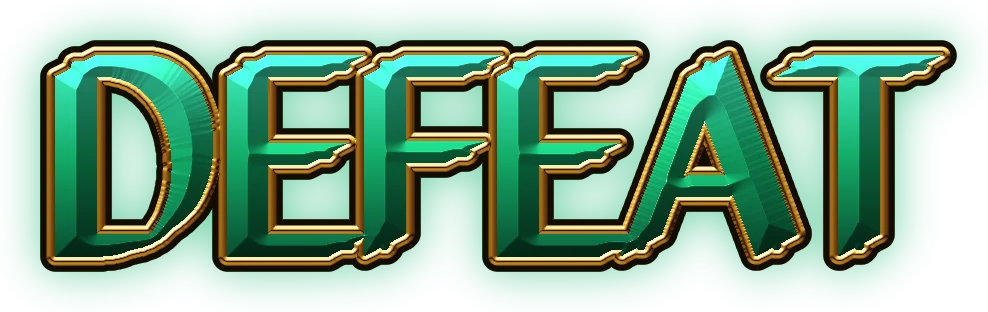
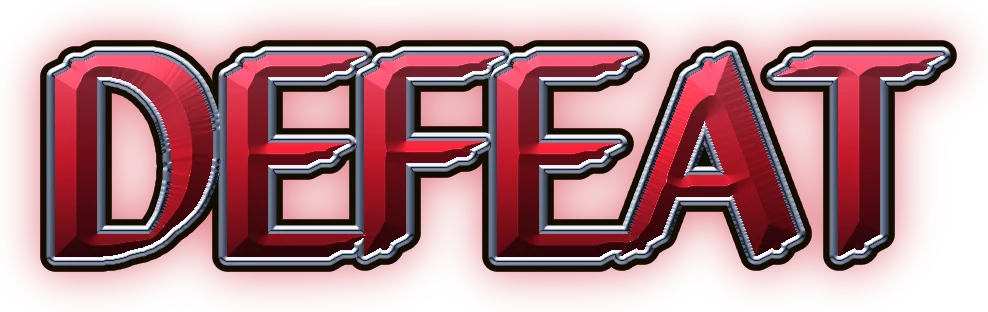
4.23: mağlubiyet kırmızı, sonuç penceresi başlığı sarı/gri, açılış yazısı küçüldü
Claude-Session: https://claude.ai/code/session_014ewFGurQpxPwb6SyJJ5X6r

diff --git a/oyna/oyun.html b/oyna/oyun.html
@@ -12191,20 +12191,21 @@ function sparks(cv,win){if(isLo())return;const dpr=Math.min(2,devicePixelRatio||
    else{c.fillStyle=`rgba(190,204,228,${al})`;c.beginPath();c.arc(p.x,p.y,r,0,7);c.fill()}}
   requestAnimationFrame(fr)})(t0)}
 // başlık görselleri: harfler elle çizildi (GALİBİYET/MAĞLUBİYET = 10 Zümrüt, açılış/bitiş = 1 Krem Işıltı); eğik çizgilerden harflere bölünür
-const TV='3';
-const TM={"o_s_tr":{"r":2.384,"c":[[26.439,18.05],[39.024,30.635],[48.112,39.722],[52.342,43.953],[58.71,50.321],[70.907,62.517],[82.326,73.937],[91.025,82.636]],"sp":4},"o_s_en":{"r":3.4532,"c":[[17.746,11.955],[25.964,20.172],[34.182,28.39],[41.756,35.964],[45.979,40.187],[54.326,48.534],[62.672,56.88],[71.019,65.227],[79.237,73.445],[87.583,81.792]],"sp":4},"o_s_es":{"r":4.3456,"c":[[10.51,5.907],[18.024,13.421],[24.901,20.299],[29.867,25.265],[32.179,27.577],[39.056,34.454],[45.297,40.694],[48.777,44.174],[55.441,50.839],[62.319,57.716],[64.631,60.028],[71.508,66.906],[76.474,71.872],[81.228,76.626],[87.893,83.291],[94.133,89.531]],"sp":7},"o_s_ku":{"r":2.8121,"c":[[24.294,17.182],[35.721,28.608],[46.088,38.976],[51.87,44.758],[61.885,54.773],[73.312,66.2],[83.327,76.215],[87.168,80.056]],"sp":3},"o_c_tr":{"r":2.2439,"c":[[29.28,20.367],[33.639,24.726],[42.202,33.289],[51.165,42.252],[57.726,48.813],[70.293,61.379],[82.058,73.145],[91.021,82.108]],"sp":4},"o_c_en":{"r":3.4607,"c":[[17.451,11.672],[25.522,19.743],[28.322,22.543],[34.337,28.557],[41.894,36.115],[46.108,40.329],[54.437,48.657],[62.765,56.986],[71.094,65.315],[79.294,73.515],[87.622,81.843]],"sp":5},"o_c_es":{"r":4.4074,"c":[[9.967,5.429],[16.433,11.896],[22.701,18.163],[27.371,22.833],[33.837,29.3],[36.511,31.973],[42.778,38.24],[48.646,44.108],[51.918,47.38],[58.185,53.648],[64.652,60.114],[66.826,62.289],[73.293,68.755],[77.963,73.425],[82.433,77.896],[88.701,84.163],[94.569,90.031]],"sp":8},"o_c_ku":{"r":2.834,"c":[[25.883,18.826],[37.438,30.38],[45.425,38.368],[51.272,44.215],[61.4,54.343],[72.955,65.898],[83.083,76.026],[86.967,79.91]],"sp":3},"o_e_tr":{"r":2.646,"c":[[22.433,14.875],[26.116,18.557],[37.071,29.512],[48.025,40.467],[58.811,51.252],[64.354,56.795],[74.97,67.412],[84.91,77.351],[92.483,84.924]],"sp":5},"o_e_en":{"r":2.9501,"c":[[23.131,16.351],[32.774,25.995],[42.418,35.638],[51.913,45.133],[61.556,54.777],[71.2,64.42],[76.079,69.3],[85.425,78.646],[88.667,81.888],[91.91,85.13]],"sp":6},"o_e_es":{"r":3.6692,"c":[[12.262,6.811],[20.191,14.741],[28.121,22.67],[36.05,30.6],[43.98,38.529],[47.992,42.542],[55.677,50.226],[63.607,58.156],[66.272,60.822],[74.202,68.751],[79.928,74.477],[85.409,79.959],[93.339,87.888]],"sp":5},"o_e_ku":{"r":3.3777,"c":[[21.267,15.346],[31.046,25.125],[44.145,38.224],[53.773,47.851],[58.72,52.799],[67.291,61.37],[77.07,71.148],[85.64,79.719],[88.928,83.007]],"sp":4},"f_me_tr":{"r":2.371,"c":[[29.207,20.772],[33.74,25.305],[43.061,34.626],[47.595,39.159],[57.332,48.897],[70.817,62.381],[75.35,66.915],[88.626,80.191]],"sp":-1},"f_me_en":{"r":3.6765,"c":[[16.725,11.285],[25.445,20.005],[34.029,28.59],[38.441,33.002],[44.2,38.76],[47.131,41.691],[55.716,50.276],[58.647,53.207],[66.559,61.119],[75.144,69.704],[83.863,78.423],[92.582,87.142]],"sp":3},"f_me_es":{"r":2.8387,"c":[[15.97,8.924],[28.613,21.567],[39.009,31.963],[46.516,39.471],[54.024,46.978],[64.099,57.053],[73.532,66.487],[80.718,73.673],[91.115,84.069]],"sp":-1},"f_me_ku":{"r":2.8694,"c":[[18.2,11.23],[28.046,21.076],[33.028,26.057],[42.873,35.903],[52.718,45.748],[62.564,55.594],[72.105,65.135],[81.799,74.828],[91.644,84.674]],"sp":2},"f_mt_tr":{"r":2.9218,"c":[[20.345,13.499],[29.375,22.53],[32.721,25.876],[42.52,35.675],[47.556,40.711],[57.508,50.663],[60.854,54.009],[67.734,60.889],[71.08,64.235],[78.267,71.422],[88.219,81.374],[91.565,84.72]],"sp":4},"f_mt_en":{"r":5.3831,"c":[[10.212,6.497],[15.536,11.82],[20.777,17.062],[24.622,20.906],[27.315,23.6],[32.639,28.924],[37.798,34.083],[41.643,37.928],[45.323,41.608],[50.564,46.849],[55.888,52.173],[59.733,56.017],[62.426,58.711],[65.942,62.227],[67.732,64.017],[72.973,69.258],[74.763,71.048],[79.594,75.879],[84.835,81.12],[90.159,86.444],[95.483,91.768]],"sp":4},"f_mt_es":{"r":4.173,"c":[[10.454,5.661],[17.208,12.415],[23.857,19.064],[27.274,22.482],[34.028,29.235],[40.573,35.78],[45.45,40.657],[52.204,47.411],[54.996,50.203],[61.541,56.748],[64.958,60.165],[71.086,66.294],[77.84,73.047],[82.717,77.924],[87.594,82.801],[94.348,89.555]],"sp":3},"f_mt_ku":{"r":4.5324,"c":[[13.814,9.401],[20.106,15.694],[25.622,21.209],[31.72,27.308],[33.836,29.423],[40.129,35.716],[43.313,38.9],[47.663,43.25],[53.955,49.543],[57.139,52.727],[63.432,59.019],[69.725,65.312],[76.017,71.605],[82.116,77.703],[88.311,83.899],[94.604,90.191]],"sp":6},"f_x_tr":{"r":2.0591,"c":[[33.63,23.917],[38.85,29.137],[49.583,39.87],[54.802,45.09],[66.014,56.302],[81.541,71.828],[86.761,77.048]],"sp":-1},"f_x_en":{"r":2.6909,"c":[[23.941,16.508],[27.935,20.502],[39.633,32.2],[43.627,36.195],[54.408,46.976],[66.106,58.674],[77.987,70.555],[89.869,82.436]],"sp":-1},"f_x_es":{"r":2.0846,"c":[[21.777,12.183],[39.037,29.443],[53.229,43.635],[63.478,53.884],[73.727,64.132],[87.919,78.325]],"sp":-1},"f_x_ku":{"r":2.5429,"c":[[29.431,21.565],[41.579,33.714],[53.727,45.862],[65.501,57.635],[77.461,69.596],[89.61,81.744]],"sp":-1},"w_tr":{"r":3.4784,"c":[[19.05,19.05],[31.061,31.061],[41.092,41.092],[45.511,45.511],[57.522,57.522],[61.942,61.942],[73.623,73.623],[84.314,84.314]]},"w_en":{"r":3.7055,"c":[[18.793,18.793],[23.761,23.761],[39.117,39.117],[51.876,51.876],[68.715,68.715],[81.845,81.845]]},"w_es":{"r":3.9126,"c":[[17.799,17.799],[22.503,22.503],[37.046,37.046],[49.13,49.13],[65.078,65.078],[77.513,77.513],[82.217,82.217]]},"w_ku":{"r":3.8526,"c":[[17.34,17.34],[28.787,28.787],[41.295,41.295],[53.802,53.802],[65.249,65.249],[77.402,77.402],[82.134,82.134]]},"l_tr":{"r":4.2324,"c":[[14.65,14.65],[24.522,24.522],[36.563,36.563],[44.807,44.807],[55.22,55.22],[65.092,65.092],[68.724,68.724],[78.324,78.324],[87.11,87.11]]},"l_en":{"r":3.1667,"c":[[22.589,22.589],[36.515,36.515],[50.011,50.011],[63.938,63.938],[79.584,79.584]]},"l_es":{"r":3.8942,"c":[[18.368,18.368],[29.693,29.693],[42.066,42.066],[54.44,54.44],[70.309,70.309],[82.333,82.333]]},"l_ku":{"r":2.5714,"c":[[19.415,19.415],[32.594,32.594],[46.994,46.994],[63.835,63.835],[79.456,79.456]]}};
+const TV='4';
+const TM={"o_s_tr":{"r":2.384,"c":[[26.439,18.05],[39.024,30.635],[48.112,39.722],[52.342,43.953],[58.71,50.321],[70.907,62.517],[82.326,73.937],[91.025,82.636]],"sp":4},"o_s_en":{"r":3.4532,"c":[[17.746,11.955],[25.964,20.172],[34.182,28.39],[41.756,35.964],[45.979,40.187],[54.326,48.534],[62.672,56.88],[71.019,65.227],[79.237,73.445],[87.583,81.792]],"sp":4},"o_s_es":{"r":4.3456,"c":[[10.51,5.907],[18.024,13.421],[24.901,20.299],[29.867,25.265],[32.179,27.577],[39.056,34.454],[45.297,40.694],[48.777,44.174],[55.441,50.839],[62.319,57.716],[64.631,60.028],[71.508,66.906],[76.474,71.872],[81.228,76.626],[87.893,83.291],[94.133,89.531]],"sp":7},"o_s_ku":{"r":2.8121,"c":[[24.294,17.182],[35.721,28.608],[46.088,38.976],[51.87,44.758],[61.885,54.773],[73.312,66.2],[83.327,76.215],[87.168,80.056]],"sp":3},"o_c_tr":{"r":2.2439,"c":[[29.28,20.367],[33.639,24.726],[42.202,33.289],[51.165,42.252],[57.726,48.813],[70.293,61.379],[82.058,73.145],[91.021,82.108]],"sp":4},"o_c_en":{"r":3.4607,"c":[[17.451,11.672],[25.522,19.743],[28.322,22.543],[34.337,28.557],[41.894,36.115],[46.108,40.329],[54.437,48.657],[62.765,56.986],[71.094,65.315],[79.294,73.515],[87.622,81.843]],"sp":5},"o_c_es":{"r":4.4074,"c":[[9.967,5.429],[16.433,11.896],[22.701,18.163],[27.371,22.833],[33.837,29.3],[36.511,31.973],[42.778,38.24],[48.646,44.108],[51.918,47.38],[58.185,53.648],[64.652,60.114],[66.826,62.289],[73.293,68.755],[77.963,73.425],[82.433,77.896],[88.701,84.163],[94.569,90.031]],"sp":8},"o_c_ku":{"r":2.834,"c":[[25.883,18.826],[37.438,30.38],[45.425,38.368],[51.272,44.215],[61.4,54.343],[72.955,65.898],[83.083,76.026],[86.967,79.91]],"sp":3},"o_e_tr":{"r":2.646,"c":[[22.433,14.875],[26.116,18.557],[37.071,29.512],[48.025,40.467],[58.811,51.252],[64.354,56.795],[74.97,67.412],[84.91,77.351],[92.483,84.924]],"sp":5},"o_e_en":{"r":2.9501,"c":[[23.131,16.351],[32.774,25.995],[42.418,35.638],[51.913,45.133],[61.556,54.777],[71.2,64.42],[76.079,69.3],[85.425,78.646],[88.667,81.888],[91.91,85.13]],"sp":6},"o_e_es":{"r":3.6692,"c":[[12.262,6.811],[20.191,14.741],[28.121,22.67],[36.05,30.6],[43.98,38.529],[47.992,42.542],[55.677,50.226],[63.607,58.156],[66.272,60.822],[74.202,68.751],[79.928,74.477],[85.409,79.959],[93.339,87.888]],"sp":5},"o_e_ku":{"r":3.3777,"c":[[21.267,15.346],[31.046,25.125],[44.145,38.224],[53.773,47.851],[58.72,52.799],[67.291,61.37],[77.07,71.148],[85.64,79.719],[88.928,83.007]],"sp":4},"f_me_tr":{"r":2.371,"c":[[29.207,20.772],[33.74,25.305],[43.061,34.626],[47.595,39.159],[57.332,48.897],[70.817,62.381],[75.35,66.915],[88.626,80.191]],"sp":-1},"f_me_en":{"r":3.6765,"c":[[16.725,11.285],[25.445,20.005],[34.029,28.59],[38.441,33.002],[44.2,38.76],[47.131,41.691],[55.716,50.276],[58.647,53.207],[66.559,61.119],[75.144,69.704],[83.863,78.423],[92.582,87.142]],"sp":3},"f_me_es":{"r":2.8387,"c":[[15.97,8.924],[28.613,21.567],[39.009,31.963],[46.516,39.471],[54.024,46.978],[64.099,57.053],[73.532,66.487],[80.718,73.673],[91.115,84.069]],"sp":-1},"f_me_ku":{"r":2.8694,"c":[[18.2,11.23],[28.046,21.076],[33.028,26.057],[42.873,35.903],[52.718,45.748],[62.564,55.594],[72.105,65.135],[81.799,74.828],[91.644,84.674]],"sp":2},"f_mt_tr":{"r":2.9218,"c":[[20.345,13.499],[29.375,22.53],[32.721,25.876],[42.52,35.675],[47.556,40.711],[57.508,50.663],[60.854,54.009],[67.734,60.889],[71.08,64.235],[78.267,71.422],[88.219,81.374],[91.565,84.72]],"sp":4},"f_mt_en":{"r":5.3831,"c":[[10.212,6.497],[15.536,11.82],[20.777,17.062],[24.622,20.906],[27.315,23.6],[32.639,28.924],[37.798,34.083],[41.643,37.928],[45.323,41.608],[50.564,46.849],[55.888,52.173],[59.733,56.017],[62.426,58.711],[65.942,62.227],[67.732,64.017],[72.973,69.258],[74.763,71.048],[79.594,75.879],[84.835,81.12],[90.159,86.444],[95.483,91.768]],"sp":4},"f_mt_es":{"r":4.173,"c":[[10.454,5.661],[17.208,12.415],[23.857,19.064],[27.274,22.482],[34.028,29.235],[40.573,35.78],[45.45,40.657],[52.204,47.411],[54.996,50.203],[61.541,56.748],[64.958,60.165],[71.086,66.294],[77.84,73.047],[82.717,77.924],[87.594,82.801],[94.348,89.555]],"sp":3},"f_mt_ku":{"r":4.5324,"c":[[13.814,9.401],[20.106,15.694],[25.622,21.209],[31.72,27.308],[33.836,29.423],[40.129,35.716],[43.313,38.9],[47.663,43.25],[53.955,49.543],[57.139,52.727],[63.432,59.019],[69.725,65.312],[76.017,71.605],[82.116,77.703],[88.311,83.899],[94.604,90.191]],"sp":6},"f_x_tr":{"r":2.0591,"c":[[33.63,23.917],[38.85,29.137],[49.583,39.87],[54.802,45.09],[66.014,56.302],[81.541,71.828],[86.761,77.048]],"sp":-1},"f_x_en":{"r":2.6909,"c":[[23.941,16.508],[27.935,20.502],[39.633,32.2],[43.627,36.195],[54.408,46.976],[66.106,58.674],[77.987,70.555],[89.869,82.436]],"sp":-1},"f_x_es":{"r":2.0846,"c":[[21.777,12.183],[39.037,29.443],[53.229,43.635],[63.478,53.884],[73.727,64.132],[87.919,78.325]],"sp":-1},"f_x_ku":{"r":2.5429,"c":[[29.431,21.565],[41.579,33.714],[53.727,45.862],[65.501,57.635],[77.461,69.596],[89.61,81.744]],"sp":-1},"w_tr":{"r":3.4784,"c":[[19.05,19.05],[31.061,31.061],[41.092,41.092],[45.511,45.511],[57.522,57.522],[61.942,61.942],[73.623,73.623],[84.314,84.314]]},"w_en":{"r":3.7055,"c":[[18.793,18.793],[23.761,23.761],[39.117,39.117],[51.876,51.876],[68.715,68.715],[81.845,81.845]]},"w_es":{"r":3.9126,"c":[[17.799,17.799],[22.503,22.503],[37.046,37.046],[49.13,49.13],[65.078,65.078],[77.513,77.513],[82.217,82.217]]},"w_ku":{"r":3.8526,"c":[[17.34,17.34],[28.787,28.787],[41.295,41.295],[53.802,53.802],[65.249,65.249],[77.402,77.402],[82.134,82.134]]},"l_tr":{"r":4.2324,"c":[[14.65,14.65],[24.522,24.522],[36.563,36.563],[44.807,44.807],[55.22,55.22],[65.092,65.092],[68.724,68.724],[78.324,78.324],[87.11,87.11]]},"l_en":{"r":3.1667,"c":[[22.589,22.589],[36.515,36.515],[50.011,50.011],[63.938,63.938],[79.584,79.584]]},"l_es":{"r":3.8942,"c":[[18.368,18.368],[29.693,29.693],[42.066,42.066],[54.44,54.44],[70.309,70.309],[82.333,82.333]]},"l_ku":{"r":2.5714,"c":[[19.415,19.415],[32.594,32.594],[46.994,46.994],[63.835,63.835],[79.456,79.456]]},"w_tr_m":{"r":3.4784,"c":[[19.05,19.05],[31.061,31.061],[41.092,41.092],[45.511,45.511],[57.522,57.522],[61.942,61.942],[73.623,73.623],[84.314,84.314]]},"w_en_m":{"r":3.7055,"c":[[18.793,18.793],[23.761,23.761],[39.117,39.117],[51.876,51.876],[68.715,68.715],[81.845,81.845]]},"w_es_m":{"r":3.9126,"c":[[17.799,17.799],[22.503,22.503],[37.046,37.046],[49.13,49.13],[65.078,65.078],[77.513,77.513],[82.217,82.217]]},"w_ku_m":{"r":3.8526,"c":[[17.34,17.34],[28.787,28.787],[41.295,41.295],[53.802,53.802],[65.249,65.249],[77.402,77.402],[82.134,82.134]]},"l_tr_m":{"r":4.2324,"c":[[14.65,14.65],[24.522,24.522],[36.563,36.563],[44.807,44.807],[55.22,55.22],[65.092,65.092],[68.724,68.724],[78.324,78.324],[87.11,87.11]]},"l_en_m":{"r":3.1667,"c":[[22.589,22.589],[36.515,36.515],[50.011,50.011],[63.938,63.938],[79.584,79.584]]},"l_es_m":{"r":3.8942,"c":[[18.368,18.368],[29.693,29.693],[42.066,42.066],[54.44,54.44],[70.309,70.309],[82.333,82.333]]},"l_ku_m":{"r":2.5714,"c":[[19.415,19.415],[32.594,32.594],[46.994,46.994],[63.835,63.835],[79.456,79.456]]}};
 const DG={"h":473,"d":[[382,89,292],[295,80,209],[386,77,301],[382,74,294],[369,76,287],[381,75,304],[380,88,297],[356,77,277],[383,85,295],[382,83,293]]};
 const TK={'GALİBİYET':'w_tr','MAĞLUBİYET':'l_tr','VICTORY':'w_en','DEFEAT':'l_en','VICTORIA':'w_es','DERROTA':'l_es','SERKETIN':'w_ku','TÊKÇÛN':'l_ku'};
 function tKey(win){return TK[L_(win?'GALİBİYET':'MAĞLUBİYET')]||(win?'w_tr':'l_tr')}
 function tStrip(k,cls,label){const m=TM[k],src=`url(img/fx/t_${k}.webp?v=${TV})`,c=[[-20,-20],...m.c,[120,120]];let h='';
  for(let i=0;i<c.length-1;i++){const a=c[i],b=c[i+1];h+=`<i style="--i:${i};--ox:${((a[0]+b[0]+a[1]+b[1])/4).toFixed(1)}%;clip-path:polygon(${a[0]}% 0,${b[0]}% 0,${b[1]}% 100%,${a[1]}% 100%)"></i>`}
  return `<span class="vtt ${cls||''}" style="--src:${src};--ar:${m.r};--n:${c.length-1}" role="img" aria-label="${esc(label||'')}">${h}<b class="vtt-sh"></b></span>`}
-function tHTML(win,cls){return tStrip(tKey(win),cls,L_(win?'GALİBİYET':'MAĞLUBİYET'))}
+// v: 'm' = sonuç penceresi başlığı (galibiyet sarı, mağlubiyet gri)
+function tHTML(win,cls,v){const k=tKey(win)+(v?'_'+v:'');return tStrip(TM[k]?k:tKey(win),cls,L_(win?'GALİBİYET':'MAĞLUBİYET'))}
 function tLang(){return{'FINISHED!':'en','¡CERRÓ!':'es','QEDAND!':'ku'}[L_('BİTİRDİ!')]||'tr'}
 function tImg(key,cls,label){const k=key+'_'+tLang();return TM[k]?tStrip(k,cls,label):''}
 const dSrc=c=>`img/fx/d1_${c}.webp?v=${TV}`;
 // görseller ilk gösterimde boş kalmasın diye önceden yüklenir (yalnız seçili dil)
-setTimeout(()=>{try{const lg=tLang(),u=['o_s','o_c','o_e','f_me','f_mt','f_x'].map(k=>`img/fx/t_${k}_${lg}.webp?v=${TV}`).concat([...'0123456789'].map(dSrc),[`img/fx/t_${tKey(1)}.webp?v=${TV}`,`img/fx/t_${tKey(0)}.webp?v=${TV}`]);
+setTimeout(()=>{try{const lg=tLang(),u=['o_s','o_c','o_e','f_me','f_mt','f_x'].map(k=>`img/fx/t_${k}_${lg}.webp?v=${TV}`).concat([...'0123456789'].map(dSrc),[`img/fx/t_${tKey(1)}.webp?v=${TV}`,`img/fx/t_${tKey(0)}.webp?v=${TV}`,`img/fx/t_${tKey(1)}_m.webp?v=${TV}`,`img/fx/t_${tKey(0)}_m.webp?v=${TV}`]);
  u.forEach(x=>{const i=new Image();i.decoding='async';i.src=x})}catch(e){}},2500);
 
 // ---------- el açma girişi ("A · Sahne"): karartma, ışık çizgisi, avatar kıvılcımla gelir, arkada büyük yazı, rakamlar tek tek düşer, puan açan oyuncuya uçar ----------
@@ -12238,10 +12239,10 @@ function oScene(p,k,num,label){
   T(fl,[[120,{transform:'scale(.2)',opacity:0}],[300,{transform:'scale(1)',opacity:1}],[760,{transform:'scale(1.9)',opacity:0}]])}
  const AV=Math.round(104*u),tk=`${k}_${tLang()}`,tm_=TM[tk],src=`img/fx/t_${tk}.webp?v=${TV}`;
  // yazı avatarın iki yanına ayrılır (kelime arasından eğik kesilir); avatar ortaya girince kelimeler iki yana açılır
- let tw=Math.min(Wv*.68,560*u),sp=tm_.sp>0?[tm_.c[tm_.sp-1],tm_.c[tm_.sp]]:null;
+ let tw=Math.min(Wv*.56,460*u),sp=tm_.sp>0?[tm_.c[tm_.sp-1],tm_.c[tm_.sp]]:null;
  const tt=E('div','o-title',`top:${cy}px`,'');tt.setAttribute('role','img');tt.setAttribute('aria-label',label);core.appendChild(tt);
  if(sp){const top=(sp[0][0]+sp[1][0])/2,bot=(sp[0][1]+sp[1][1])/2,xs=(top+bot)/200,g=6*u;
-  tw=Math.min(tw,(Wv*.48-AV/2-g)/Math.max(xs,1-xs));const Xs=cx-tw/2+xs*tw,tL=(cx-AV/2-g)-Xs,tR=(cx+AV/2+g)-Xs;
+  tw=Math.min(tw,(Wv*.46-AV/2-g)/Math.max(xs,1-xs));const Xs=cx-tw/2+xs*tw,tL=(cx-AV/2-g)-Xs,tR=(cx+AV/2+g)-Xs;
   [[`polygon(0 0,${top}% 0,${bot}% 100%,0 100%)`,tL],[`polygon(${top}% 0,100% 0,100% 100%,${bot}% 100%)`,tR]].forEach(([cp,dx])=>{
    const h=E('img','o-half',`clip-path:${cp}`);h.src=src;h.alt='';tt.appendChild(h);
    T(h,[[240,{transform:`translateX(${dx*.15}px)`,easing:'cubic-bezier(.2,1.25,.4,1)'}],[620,{transform:`translateX(${dx}px)`}]])})}
@@ -12300,7 +12301,7 @@ function countUp(el,dur,delay){const tn=[...el.childNodes].reverse().find(n=>n.n
 function hxDeco(){const mc=$('#mc');if(!mc||!mc.classList.contains('hend')||mc.classList.contains('hx'))return;mc.classList.add('hx');
  const hd=mc.querySelector('.he-hd'),tt=mc.querySelector('.he-ttl');
  if(hd&&tt){const w=HXW?HXW=='w':hd.classList.contains('hw')?true:hd.classList.contains('hl')?false:null;
-  if(w!==null){tt.innerHTML=tHTML(w,animOn()&&!isLo()?'an sm':'sm');tt.classList.add('hx-img')}if(HXW)hd.classList.toggle('hw',HXW=='w'),hd.classList.toggle('hl',HXW=='l')}
+  if(w!==null){tt.innerHTML=tHTML(w,animOn()&&!isLo()?'an sm':'sm','m');tt.classList.add('hx-img')}if(HXW)hd.classList.toggle('hw',HXW=='w'),hd.classList.toggle('hl',HXW=='l')}
  HXW='';if(!animOn()||isLo())return;
  mc.querySelectorAll('.he-r').forEach((r,i)=>{r.style.setProperty('--i',i);r.classList.add('hx-in');r.querySelectorAll('.he-v,.he-t,.he-c').forEach(x=>countUp(x,650,260+i*90))});
  const tm=mc.querySelector('.he-tm');if(tm)mc.querySelectorAll('.he-tt b').forEach(x=>countUp(x,700,300))}

diff --git a/oyna/index.html b/oyna/index.html
@@ -29,7 +29,7 @@ html,body{margin:0;width:100%;height:100%;background:#0b1a45;overflow:hidden;tou
 </head>
 <body>
 <div id="sa"></div>
-<iframe id="g" src="oyun.html?web=1&v=46f61ad5" allow="autoplay; fullscreen" title="DİGOR OKEY 101"></iframe>
+<iframe id="g" src="oyun.html?web=1&v=1cbb7b0f" allow="autoplay; fullscreen" title="DİGOR OKEY 101"></iframe>
 <div id="ins"><div class="c">
  <img src="icon-180.png" alt="">
  <h1>DİGOR OKEY 101</h1>
